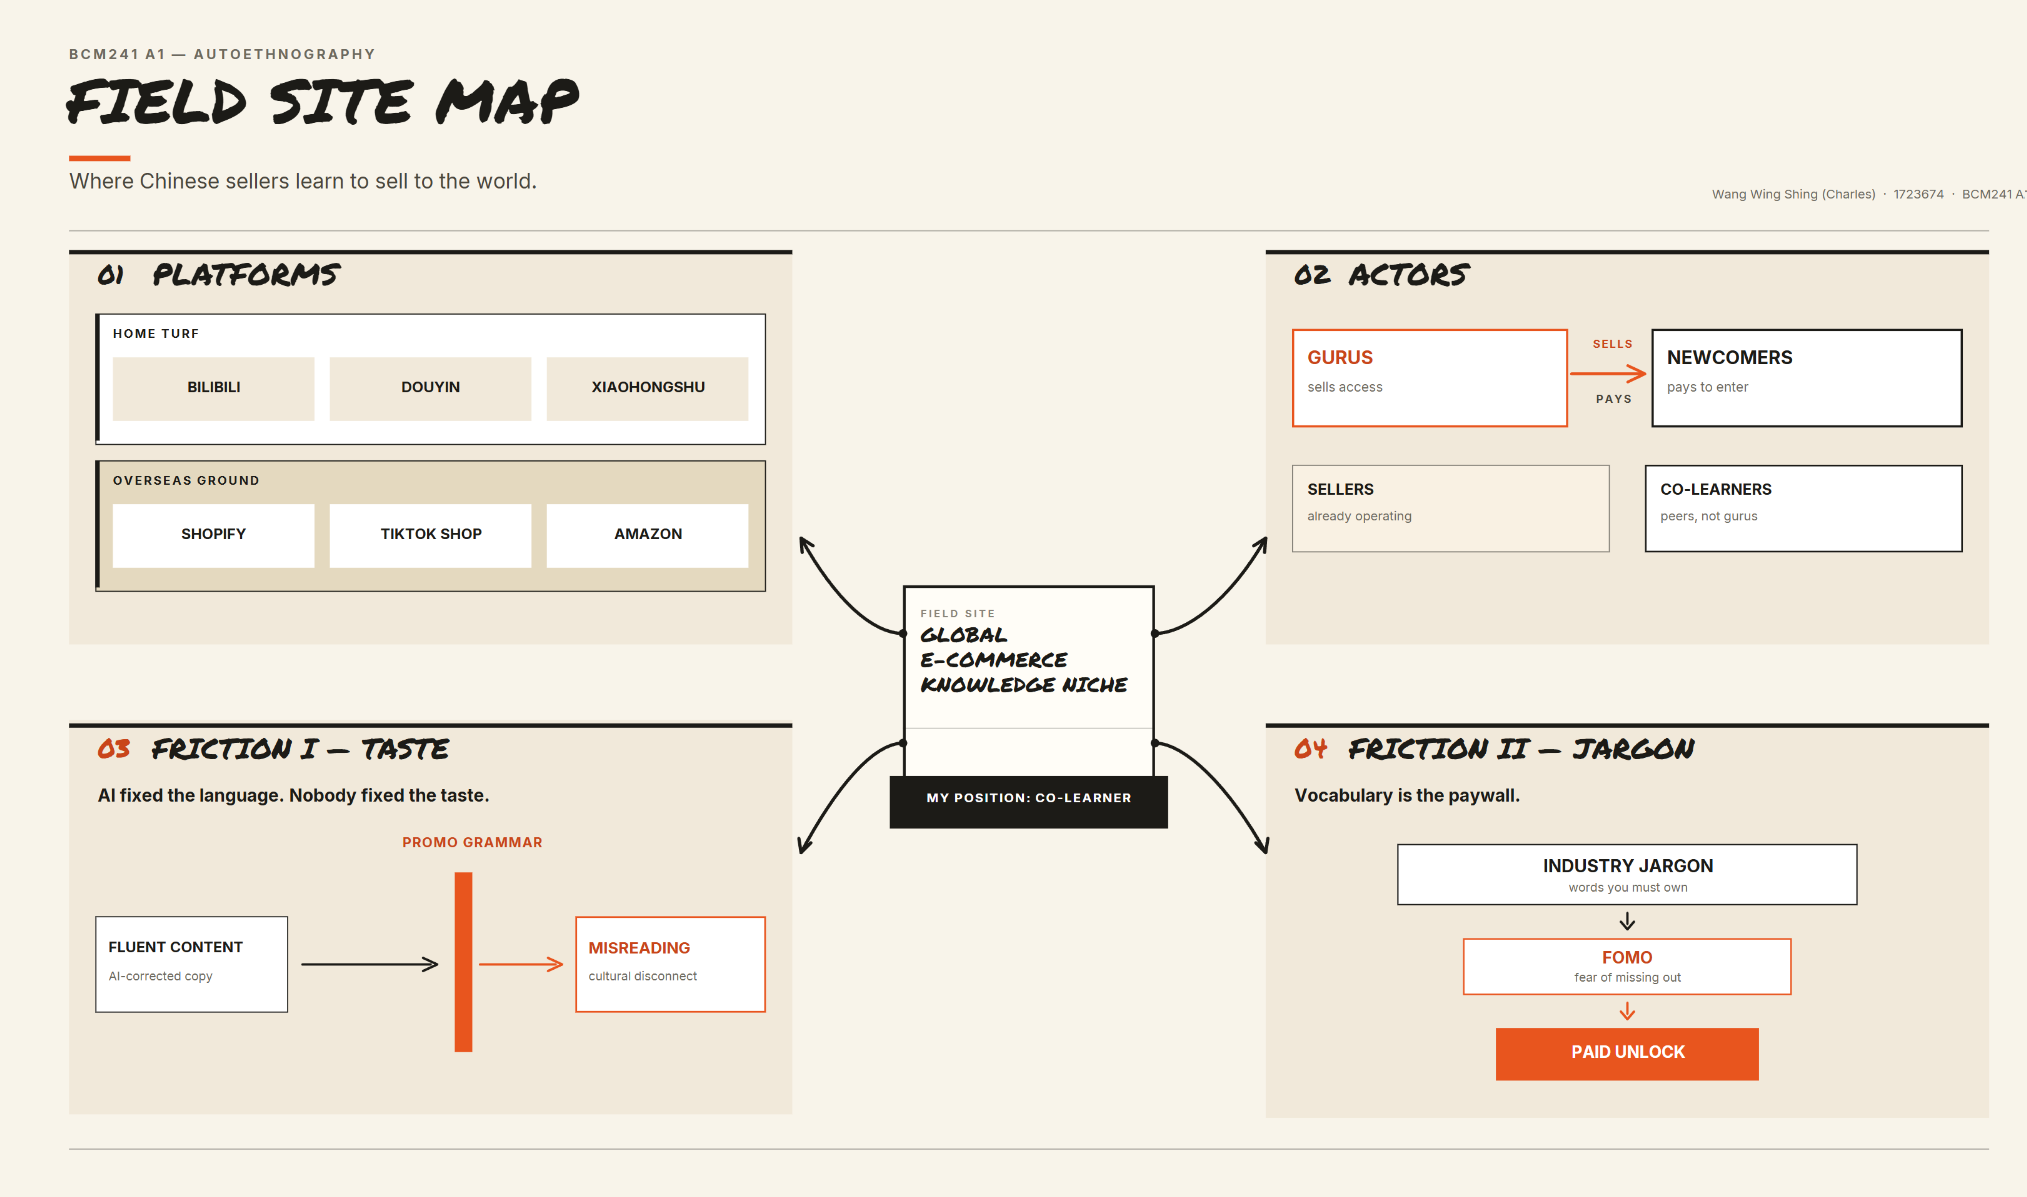
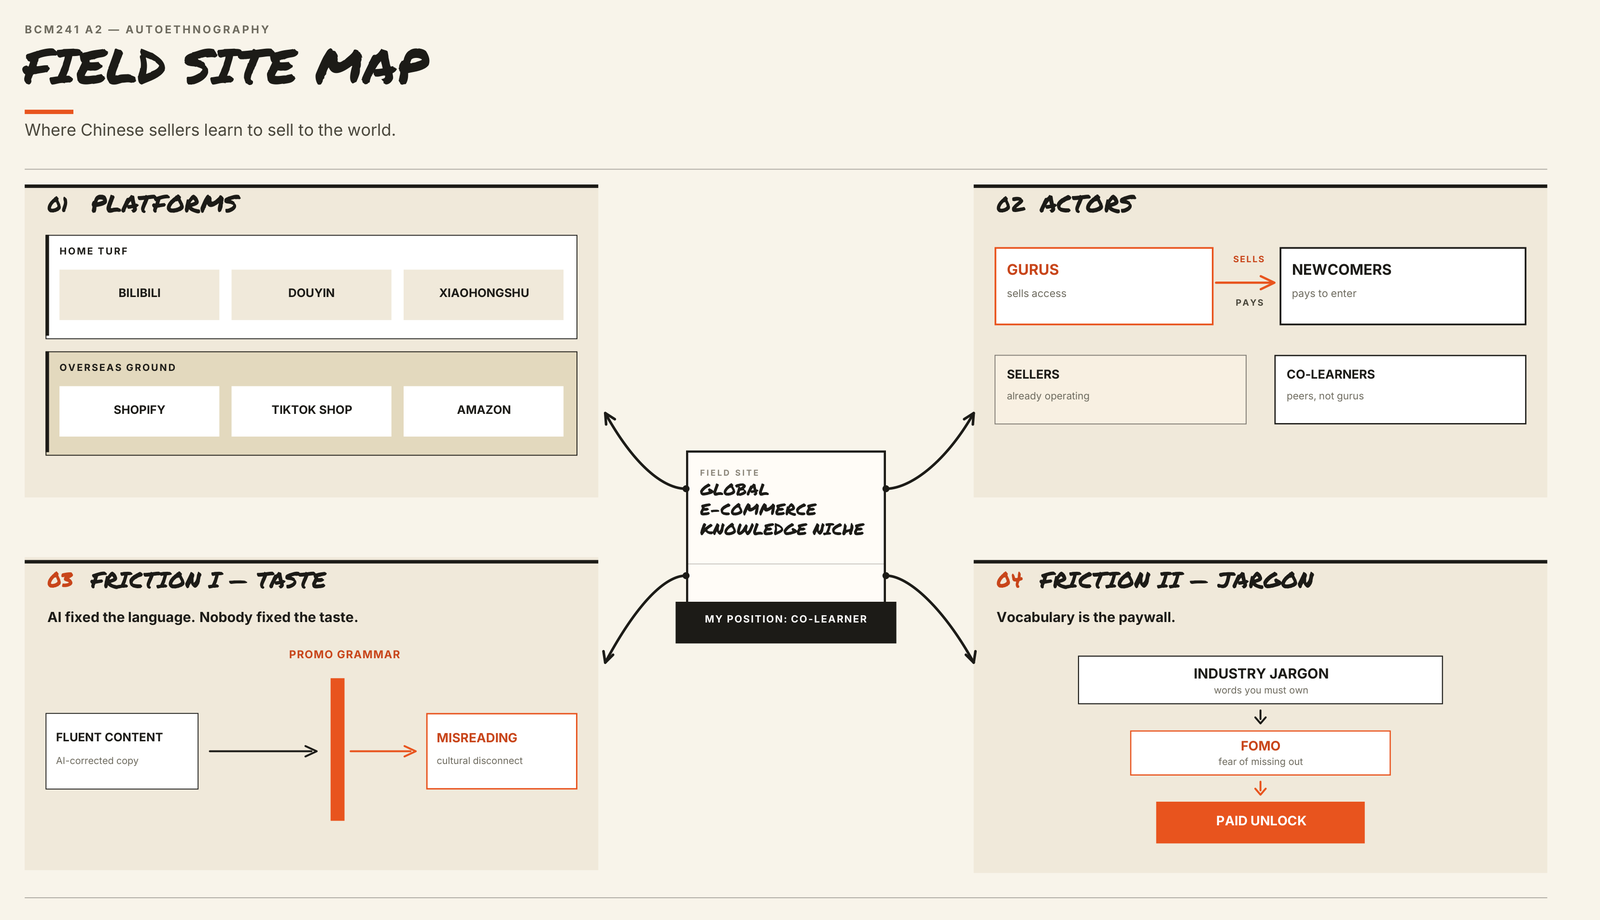
第三十七階段：換田野地圖 + 圖版尺寸校準 + 1:1 卡片封面
- 地圖改用 BCM241 Field Site Map.pdf（A2 版），PyMuPDF 2.4× 渲染、裁邊、清右上溢出小字 → 1600×920
- 紅帽衫雙圖統一 0.77 比例（並排等高 852/853）
- figure 新增 wide / narrow 兩個欄位：地圖 ≥1100 鋪滿版心、豎長截圖限寬 380
- 科目頁卡片改用 1:1 拼貼封面（ImageGen + cover-recolor 配墨至 #5EA99E 檔位）
- 標題 text-wrap:balance；LIVE_SUBJECTS 與卡片數斷言同步

Changed region(s): [[0.0, 0.0304, 0.9688, 0.9435], [0.5938, 0.1522, 1.0, 0.487], [0.0312, 0.5783, 0.375, 0.8826]]

diff --git a/content.js b/content.js
@@ -800,8 +800,9 @@ const SUBJECTS = {
           { en: 'Field Notes', zh: '田野筆記' },
         ],
         noHero: true,
-        image: 'assets/posts/bcm241-a2-figmap.png',
-        figLabel: { en: 'FIG.01 — The field site, mapped', zh: 'FIG.01 — 被描繪的田野現場' },
+        // 卡片缩略图 1:1 拼贴（·37）：科目页缩略图位是 1:1 cover，地图是横图会被裁掉两边
+        image: 'assets/posts/bcm241-a2-cover.png',
+        figLabel: { en: 'COVER — Two worlds, one box', zh: '封面圖 — 兩個世界，一個箱子' },
         body: [
           {
             type: 'p',
@@ -812,6 +813,7 @@ const SUBJECTS = {
           },
           {
             type: 'figure',
+            wide: true, // 信息密集的示意图：≥1100 铺满版心，否则 660 宽字号不可读（第三十七階段）
             src: 'assets/posts/bcm241-a2-figmap.png',
             alt: {
               en: 'Field site map of the cross-border e-commerce knowledge niche: platforms (Bilibili, Douyin, Xiaohongshu at home; Shopify, TikTok Shop, Amazon overseas), actors (gurus, newcomers, sellers, co-learners), and two frictions — taste and jargon.',
@@ -876,6 +878,7 @@ const SUBJECTS = {
           },
           {
             type: 'figure',
+            narrow: true, // 竖长手机截图：不放大到 660（第三十七階段）
             src: 'assets/posts/bcm241-a2-xhs.png',
             alt: {
               en: 'A Xiaohongshu post from a trademark agency: oversized red Chinese type reading "apply through us for a US trademark", layered over an official certificate.',

diff --git a/article.css b/article.css
@@ -73,6 +73,9 @@
     /* 大屏标题不用 20ch 硬折行（会在右侧留出大片空白），
        给到 2 行以内的合理行宽上限即可。 */
     max-width: 26ch;
+    /* 两行时让两行长度接近（·37）：否则「Cross-Border E-」会把
+       Commerce 单独甩到下一行，读起来像断词。 */
+    text-wrap: balance;
 }
 
 /* ===== 元信息条 ===== */
@@ -380,6 +383,20 @@
     .article-body > .inline-figure--plates img + img { margin-top: 0; }
     .article-body > .inline-figure--plates figcaption { flex-basis: 100%; }
 }
+
+/* 图幅变体（第三十七階段）：素材真实比例差别很大，统一塞进 660 会让
+   竖长的手机截图高到失控、信息密集的地图看不清。
+   · --wide   信息密集的示意/地图 → ≥1100 铺满版心（同多图 figure 的处理）
+   · --narrow 竖长截图（手机页面）→ 限宽 420，不再放大到 660
+   两条都只改 max-width，居中仍由 660 组的 margin auto 负责。 */
+@media (min-width: 1100px) {
+    .article-body > .inline-figure--wide {
+        max-width: 100%;
+        margin-left: 0;
+        margin-right: 0;
+    }
+}
+.article-body > .inline-figure--narrow { max-width: 380px; }
 
 .inline-figure figcaption {
     font-family: var(--font-round);

diff --git a/article-page.js b/article-page.js
@@ -728,7 +728,10 @@
     const plates = srcs.map(function (src) {
       return '<img src="' + util.imgSrc(root + src) + '" alt="' + alt + '" loading="lazy" decoding="async">';
     }).join('');
-    const cls = 'inline-figure' + (srcs.length > 1 ? ' inline-figure--plates' : '');
+    const cls = 'inline-figure'
+      + (srcs.length > 1 ? ' inline-figure--plates' : '')
+      + (block.wide ? ' inline-figure--wide' : '')
+      + (block.narrow ? ' inline-figure--narrow' : '');
     const capCls = block.captionStyle === 'note' ? ' class="is-note"' : '';
     return '<figure class="' + cls + '">' + plates
       + '<figcaption' + capCls + '>' + util.tr(block.caption) + '</figcaption></figure>';

diff --git a/subjects.css b/subjects.css
@@ -175,6 +175,7 @@
     font-weight: 800;
     line-height: 1.25;
     transition: transform 0.3s cubic-bezier(0.25, 1, 0.5, 1);
+    text-wrap: balance;
 }
 
 .assignment-card:hover .assignment-title {
